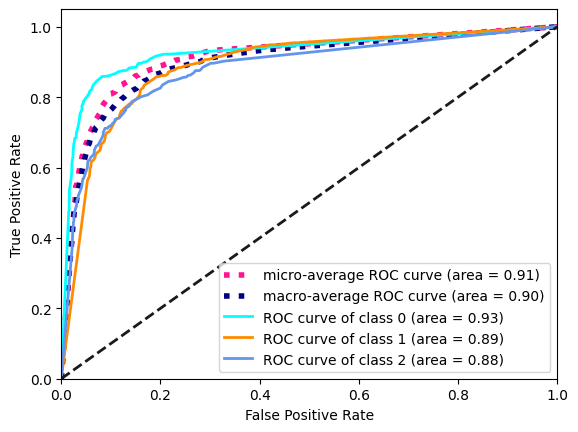
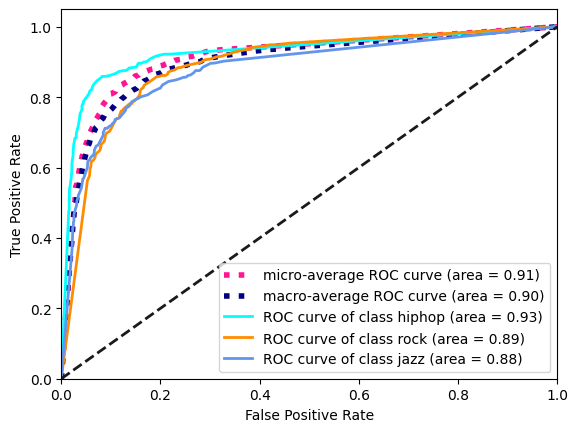
Changes

Changed region(s): [[0.436, 0.7222, 0.9343, 0.8426]]

diff --git a/sections/02_Fundamentals/02_basic_concepts.tex b/sections/02_Fundamentals/02_basic_concepts.tex
@@ -76,15 +76,15 @@
 
 The project falls under the umbrella term Big Data. Big Data is defined as a large set of information
 which is stored and processed to create business value. The analysis represents a substantial part of Big Data and is 
-referred to as Big Data Analytics. 
+referred to as Big Data Analytics \cite[p.4]{Meier_2021}. 
 
 The term analytics is used to describe a systematical analysis of data of any format. Analytics is 
 about detecting hidden patterns, clusters and meaningful features ranging from simple detection 
-to deep analysis and predictions \cite[p.2]{Tanwar2015} \cite[p.8f]{Meier_2021}.
+to deep analysis and predictions \cite[p.2]{Tanwar2015}.
 The creation of value is closely linked to 
 the use cases for which in-depth knowledge is required. Generally, literature distinguishes 
 between four subsections of analytics by grouping them according to the methodology 
-and their objectives. Descriptive analytics is the simplest 
+and their objectives \cite[p.8f]{Meier_2021}. Descriptive analytics is the simplest 
 form of analytics and is often the first step for further research. It gives 
 information about what has happened in the past and is mostly used for reporting. Diagnostic analytics is based on descriptive 
 analytics but serves a different goal, since its objective is to give insights on why something has 
@@ -99,15 +99,19 @@ This project contains elements of descriptive, diagnostics and predictive analyt
 \ac{CRISP DM} process model, the dataset is analyzed first. Afterwards a predictive model 
 is generated to classify new data based on known patterns.
 
-Big Data Analytics covers a large variety of research areas that differenciate mostly in their input
-and learning methodology. 
+%Big Data Analytics covers a large variety of research areas that differenciate mostly in their input
+%and learning methodology. 
+
+Furthermore, Big Data Analytics covers a large variety of research areas that differenticate mostly in 
+their input and learning methodology. The following sections briefly explains these concepts and 
+classifies the project task accordingly. 
 
 Input data exists in various formats for which adequate storage solutions and machine learning 
 algorithms are required. Conventional data is almost exclusively stored in structured data formats 
 while modern developments increasingly rely on semi- and unstructured data. Unstructured data has no
 fixed format, scheme or structure. Structured data, on the other hand, has a fixed format and fits into 
 a predefined data models. Semi-structured data is an intermediate stage and is not based on a strict
-standard. It often consists of predefined tags like \ac{JSON}. This project utilizes semi-structured 
+standard. It often consists of predefined tags like \ac{JSON} \cite[p.2f]{Tanwar2015}. This project utilizes semi-structured 
 data during the collection-phases which is converted into a structured format for the modeling.
 
 The fundamental learning methods are unsupervised, supervised and reinforced learning with 

diff --git a/sections/02_Fundamentals/03_gradient_boosting.tex b/sections/02_Fundamentals/03_gradient_boosting.tex
@@ -5,8 +5,10 @@ as standalone solutions or in combination with enhancement approaches like boost
 They allow for a very flexible construction and can be utilized for various machine learning problems
 such as classification and regression.
 
-Decision trees “predict an unknown value of a target variable by learning decision rules from 
-data features” to reconstruct the dependence between the features and the respective labels for 
+%Decision trees “predict an unknown value of a target variable by learning decision rules from 
+%data features”  
+Decision trees predict "the value of a target variable by learning simple decision rules inferred 
+from the data features" \cite{scikit-decision_tree} to reconstruct the dependence between the features and the respective labels for
 each sample. To perform classification or regression, Decision Trees rely on recursive 
 splitting of the dataset into multiple subgroups. As the number of iterations increases, the 
 subgroups become more and more homogeneous \cite[p.330]{James2021}. The ideal result is that each subgroup is fully 
@@ -91,7 +93,7 @@ the impurity of both subgroups for each split. The goal for every split is to di
 more homogeneous than the origin and maximize the overall homogenity. The division of the data is 
 always performed using a feature, on the basis of which the samples can be divided either by a threshold for 
 nominal values or an is-equal-to query for categorical values. The split is mathematically described as the 
-following equation \ref{equ:dt_split}. It consists of the the feature \(j\) and a criteria \(t_{m}\) \cite{scikit-decision_tree}.
+following equation (\ref{equ:dt_split}). It consists of the the feature \(j\) and a criteria \(t_{m}\) \cite{scikit-decision_tree}.
 
 \begin{equation}
     \theta = (j, t_{m})
@@ -482,7 +484,7 @@ recently predicted probabilities \(p\) for all samples in the leaf.
 
 \begin{equation}
     \begin{aligned}
-        \gamma_{jm} &= \arg \min_{\gamma}\sum_{x_{i} in R_{jm}} L(y_{i},F_{m-1}(x_{i}) + \gamma)
+        \gamma_{jm} &= \arg \min_{\gamma}\sum_{x_{i} \in R_{jm}} L(y_{i},F_{m-1}(x_{i}) + \gamma)
         \\
         \gamma_{jm} &= \frac{ \sum r_{im}}{\sum p_{i} * (1 - p_{i})}
         \label{equ:gb_output_value_theory}
@@ -525,7 +527,7 @@ the changes. In practice a \(\nu \) in the order of \(0.1\) is common as a small
 give better results but also requires much more iterations \cite[p.1206]{Friedman_2001}. 
 
 \begin{equation}
-    F_{m}(x) = F_{m}(x- 1) + \nu * \sum_{j = 1}^{J_{m}} \gamma_{jm}I(x in R_{jm})
+    F_{m}(x) = F_{m}(x- 1) + \nu * \sum_{j = 1}^{J_{m}} \gamma_{jm}I(x \in R_{jm})
     \label{equ:gb_new_prediction_theory}
 \end{equation}
 

diff --git a/sections/03_Implementation/05_evaluation.tex b/sections/03_Implementation/05_evaluation.tex
@@ -15,8 +15,7 @@ fundamental basis for evaluating the overall performance with many unknowns that
 
 The first step of a deeper analysis is to create a confusion matrix for all categories. The confusion matrix is an approach of 
 visualizing the performance by clustering the the output. The \(x1\)-axis represents the predicted values for the classes 
-while the \(x2\)-axis stands of actual (correct) values \cite[p.235]{Davis_2006}. For this analysis three numbered classes \(1\) to \(1\) are necessary that 
-typify the categories hiphop, rock and jazz in the stated order. The confusion matrix reveals four combinations of predicted 
+while the \(x2\)-axis stands of actual (correct) values \cite[p.235]{Davis_2006}. The confusion matrix reveals four combinations of predicted 
 and actual values (\ref{tbl:evaluation_confusion_matrix}). For Gradient Boosting the confusion matrix is displayed in table \ref{tbl:gb_confusion_matrix}.
 
 \begin{table}[H]
@@ -38,7 +37,7 @@ and actual values (\ref{tbl:evaluation_confusion_matrix}). For Gradient Boosting
   \centering
   \begin{tabular}{lrrrr}
     \toprule
-    predicted & hiphop & rock & jazz &   all \\
+    predicted & hiphop (1) & rock (2) & jazz (3) &   all \\
     actual &      &       &      &       \\
     \midrule
     hiohop &  438 &    68 &   19 &   525 \\
@@ -108,7 +107,10 @@ models in which the overall accuracy plays a subordinate role, such as that all 
 to visualize such problems to find optimal solutions. A model whose results are close to the diagonal classifies data worse than a 
 model whose curve is as close as possible to the point \((0/1)\) in the coordinate system. This performance is often measured by means of 
 the \ac{AUC}, which is derived directly from the \ac{ROC}. With help of the \ac{AUC} comparability between models is possible. The \ac{ROC} and \ac{AUC} for 
-the project are shown in figure \ref{fig:roc_and_auc_for_gb_and_dt} \cite[p.862f]{fawcett2006introduction} \cite{scikit-roc_and_auc}.
+the project are shown in figure \ref{fig:roc_and_auc_for_gb_and_dt} \cite[p.862f]{fawcett2006introduction} \cite{scikit-roc_and_auc}. 
+
+%The categories are 
+%replaced by numbers from \(0\) tot \(2\) which label the classes \emph{hiphop}, \emph{rock} and \emph{jazz} in the following order. 
 
   \begin{figure}[H]
     \centering
